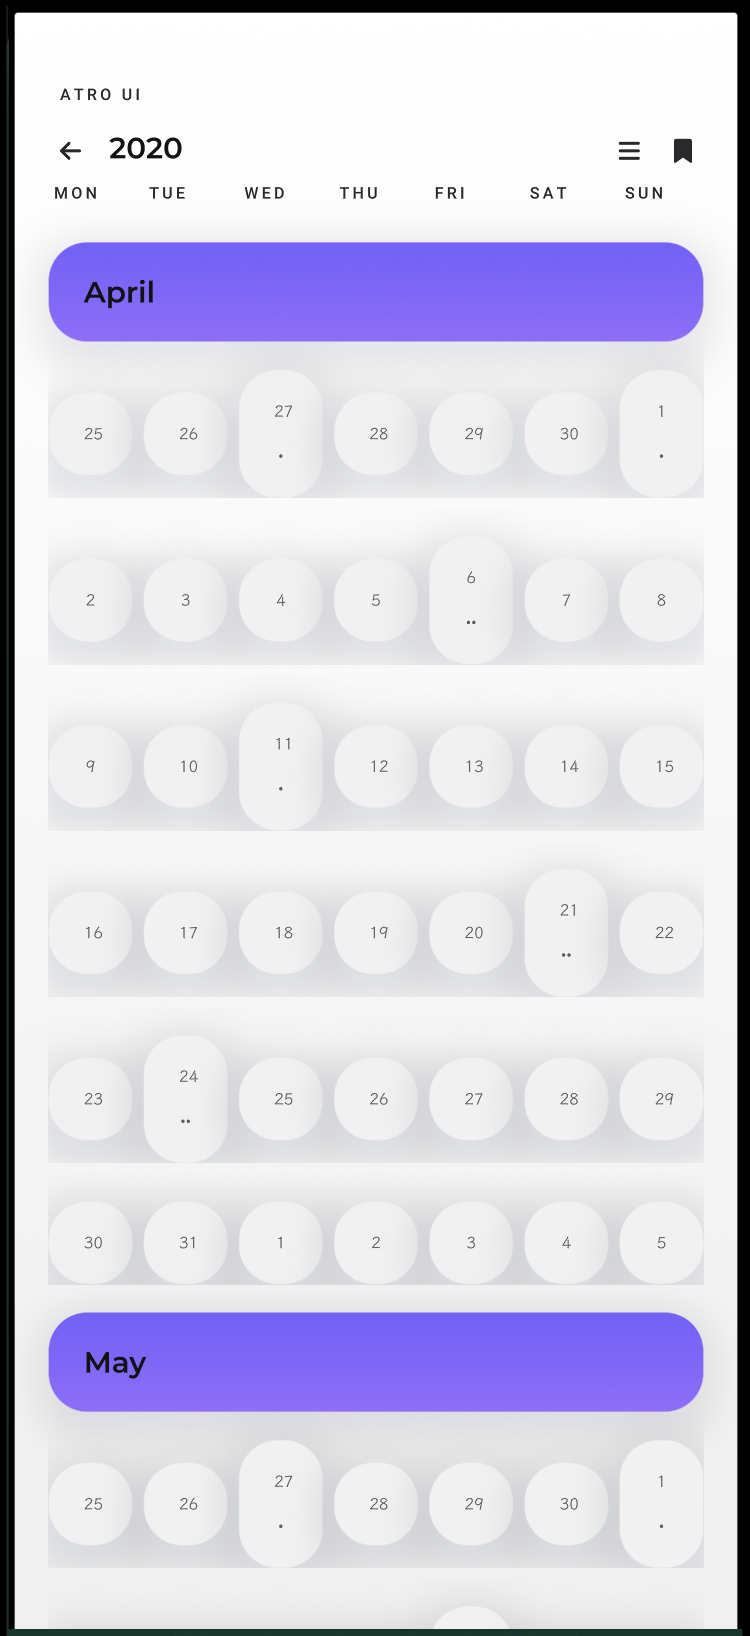
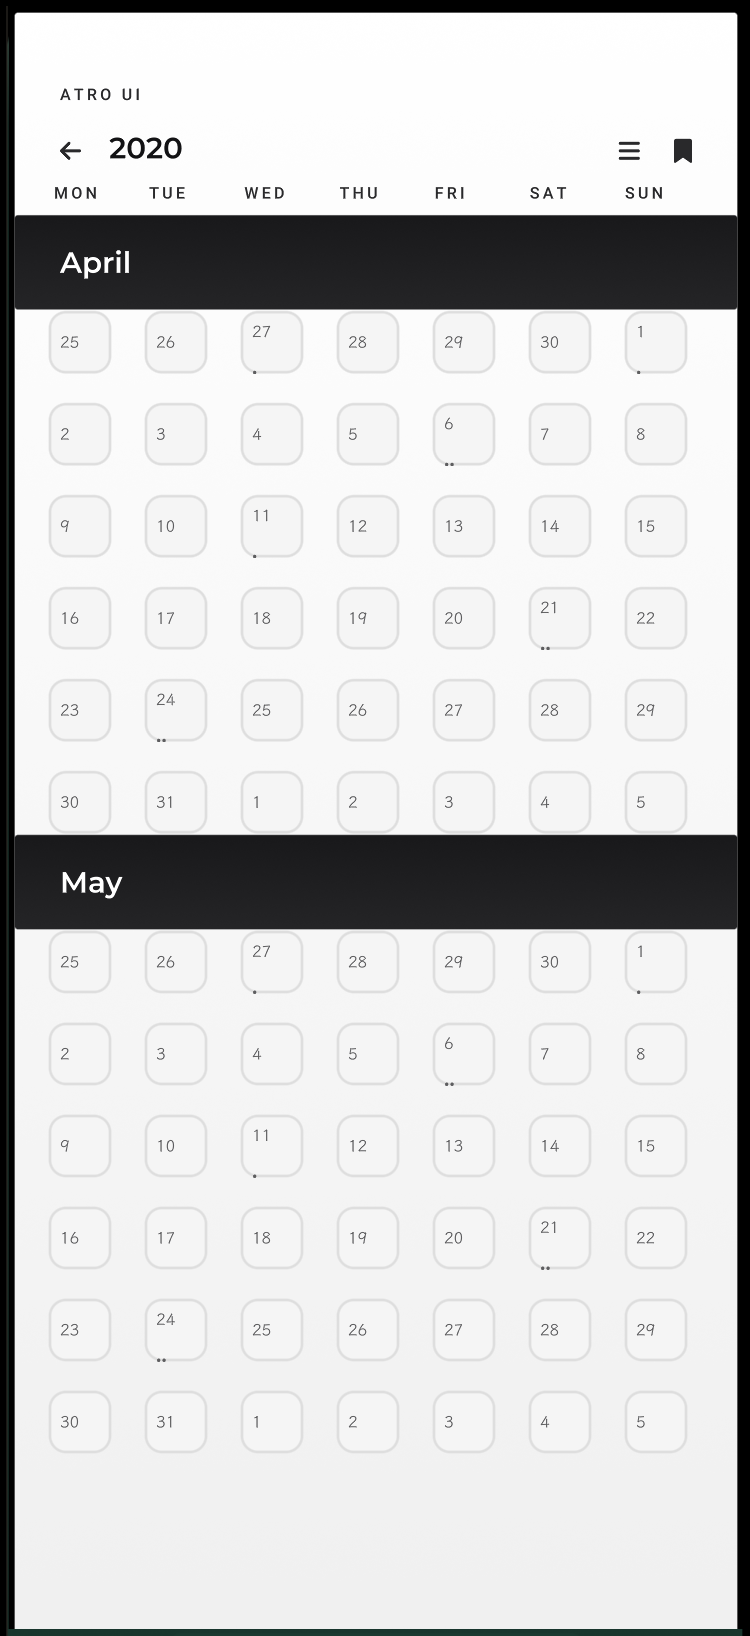
feat(l0-fidelity): calendar squares + band land; author knows both

diff --git a/lab/sketch/author_cards.py b/lab/sketch/author_cards.py
@@ -45,7 +45,8 @@ RULES = """You are writing a Splash L0 card. HARD RULES:
 - Composition tools you MUST use where the design does: Grid(cols: N) for grids; Col(align: .center) for centered stacks; Chip(text: "...") for buttons/CTAs (they render as filled pills in this pack); Row { TextRow(text:.., width: .fill) TextValue(value: "..") } for label-left value-right rows; Rule() for dividers; Field(placeholder: "...") for inputs; Tile for small stat cells inside Grid.
 - FILL THE FRAME: the design is a full 375x812 phone screen and the card must own all of it — size media generously, keep lists complete. Space() is a flexible blank that absorbs leftover height, and it is ONLY for what the design shows: ONE before a bar/CTA the design pins at the screen floor, or one above AND below a centered hero on a sparse screen. A dense list/grid screen takes NO Space() at all — never put one between adjacent content sections; a giant vacuum in the middle of content is as wrong as dead space at the end.
 - CENTERED HERO SCREENS (onboarding, empty states, success): view root Surface { <top bar if any> Space() Col(align: .center, gap: 10) { <art> <title> <body> } Space() Col(align: .center, width: .fill) { Chip(text: "<cta>", tone: .primary) } } — art, copy and CTA centered, CTA pinned to the bottom. INSIDE a centered Col every text takes width: .fit (a full-width text ignores centering).
-- CALENDAR month grid: Grid(cols: 7) { TextCaption(text: "1") TextCaption(text: "2") ... } — day cells are PLAIN TEXT captions, never Tile. Only the ONE selected day is a Chip or Tile. Weekday initials are a first Grid row of TextEyebrow.
+- CALENDAR month grid: Grid(cols: 7) { Tile(label: "25", shape: .square) Tile(label: "27", glyph: "•", shape: .square) ... } — every day is one SQUARE Tile; a day with events carries glyph: "•" (or "••"). Weekday initials are a Grid(cols: 7) of TextEyebrow above.
+- SECTION BANDS: a full-bleed dark strip with a title (month headers, dark app-bar bands over a light page) is Band(text: "April") — never a Card or Panel.
 - MEDIA SIZES: photo/media grids use SQUARE cells — Thumb(src: pN, shape: .square) inside Grid(cols: 3). A LARGE media area (canvas, illustration panel, hero image, map — anything ≥ a third of the screen) is Thumb(src: pN, shape: .hero) — full-width tall panel. The bare Thumb default is a wide 16:9 list-row tile beside row text. A SMALL leading image in a list row (≤56px in the design) is Avatar initials, never a Thumb.
 - APP BAR with a centered title: Row(width: .fill, align: .center) { Icon(name: .chevron_left) Col(width: .fill, align: .center) { TextTitle(text: "<title>", width: .fit) } Icon(name: .more) } — swap the two icons for what the design shows.
 - PROPORTION: keep every element at the design's scale. A list row is ONE compact row (Avatar + name/subtitle + a trailing compact Chip or Icon) — an action button inside a row is never full-width. Nothing may eat several design-rows of height.
